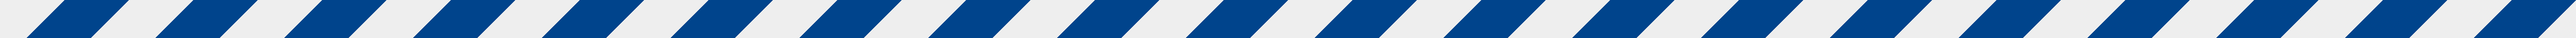
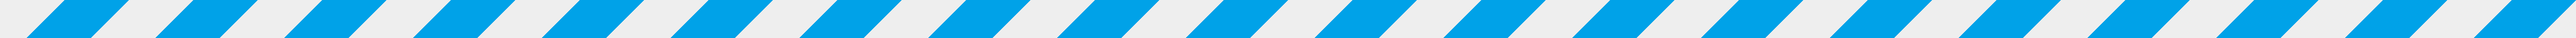
fix:mudanças no estilo

diff --git a/src/styles/moldBox.tsx b/src/styles/moldBox.tsx
@@ -1,7 +1,7 @@
 import styled from "styled-components";
 const  MoldBoxStyle = styled.section<{$height:string ; $width:string} >`
-.moldBox {
-    padding:10px;
+.moldBox2 {
+    padding:15px;
     position: relative;
     width: ${props => props.$width? props.$width:'80dvw'};
     height: ${props => props.$height? props.$height:'40dvh'};
@@ -11,20 +11,22 @@ const  MoldBoxStyle = styled.section<{$height:string ; $width:string} >`
     display: flex;
     justify-content: center;
     align-items: center;
+    align-content: center;
     margin:0  auto ;
+    margin-top: 30px;
 }
-.moldBox::before{
+.moldBox2::before{
     content: "";
     position: absolute;
     width: 80dvw;
     height: 40dvh;
-    background: radial-gradient(blue ,black);
+    background: radial-gradient(#FA32F4 ,black);
     animation: animate 6s linear infinite;
     display: flex;
     justify-content: center;
     align-items: center;
 }
-.moldBox::after{
+.moldBox2::after{
     content:'';
     position: absolute;
     background-color: #0F0F0F;

diff --git a/src/pages/about/AboutPageTurbo.tsx b/src/pages/about/AboutPageTurbo.tsx
@@ -2,7 +2,7 @@ import styled from "styled-components"
 import owlOnHill from "../../assets/owl-in-hill.jpeg"
 import imageConections from "../../assets/conectionsLogo.jpeg"
 import BlueSession from "./components/blueSectionBlock"
-import AlertBlock from "./components/tituloAlert"
+import MoldBoxStyle from "../../styles/moldBox"
 
 export default function AboutPage(){
     return (<PageStyle>
@@ -16,7 +16,11 @@ export default function AboutPage(){
                 </div>
             </TextAndImage>
         </div>
-        <AlertBlock />
+        <MoldBoxStyle $height='13dvh' $width=''>
+        <div className='moldBox2'>
+          <h2> Venha ser time #BlueOwl</h2>
+        </div>
+      </MoldBoxStyle>
         <BlueSession />
         <div className="moldBox">
             <TextAndImage>

diff --git a/src/pages/begin/Carossel.tsx b/src/pages/begin/Carossel.tsx
@@ -2,15 +2,11 @@ import Carousel from 'react-bootstrap/Carousel';
 import logo  from '../../assets/logo.jpeg'
 import CarosselStyle from '../../styles/carrossel/carosselStyle';
 import BlockStyle from '../../styles/context_block';
-import MoldBoxStyle from '../../styles/moldBox';
+import AlertBlock from '../about/components/tituloAlert';
 function CarosselBlock() {
   return (
     <BlockStyle>
-      <MoldBoxStyle $height='20dvh'$width=''>
-        <div className='moldBox'>
-          <h2> Venha ser time #BlueOwl</h2>
-        </div>
-      </MoldBoxStyle>
+      <AlertBlock />
       <Carousel>
       <Carousel.Item>
       <CarosselStyle>

diff --git a/src/styles/menu/menuStyle.tsx b/src/styles/menu/menuStyle.tsx
@@ -2,15 +2,30 @@ import styled from "styled-components";
 
 const MenuStyle = styled.header`
 width: 100dvw ;
-background: black;
+background: #010028;
 position: fixed;
 z-index: 15;
 h1{
   display: flex;
   text-align: center;
   align-items: center;
-  font-size: clamp(5px, 5px + 6vw, 2em);
+  font-size: clamp(5px, 5px + 5vw, 2em);
   color:  lightblue;
+  margin-left: 2dvw;
+}
+.logo{
+  overflow: hidden;
+  display: flex;
+  flex-direction: row;
+  height: 100%;
+}
+img {
+  height:4em;
+  width: min-content;
+  border-radius: 50%;
+  overflow: hidden;
+  border-style: groove;
+  border: 3px solid lightblue;
 }
 
 .menu {

diff --git a/src/pages/menu.tsx b/src/pages/menu.tsx
@@ -1,6 +1,7 @@
 import { useState } from "react"
 import MenuStyle from "../styles/menu/menuStyle"
 import {Link} from "react-router-dom"
+import Logo from "../assets/Logo.jpg"
 
 
 export default  function Menu(){
@@ -17,6 +18,7 @@ export default  function Menu(){
         <MenuStyle>
             <div className="menu">
                 <div className="logo">
+                <img src={Logo} alt="" />
                 <h1> Blueowl Publicidade</h1>
                 </div>
                 <ol className={navbar}>
